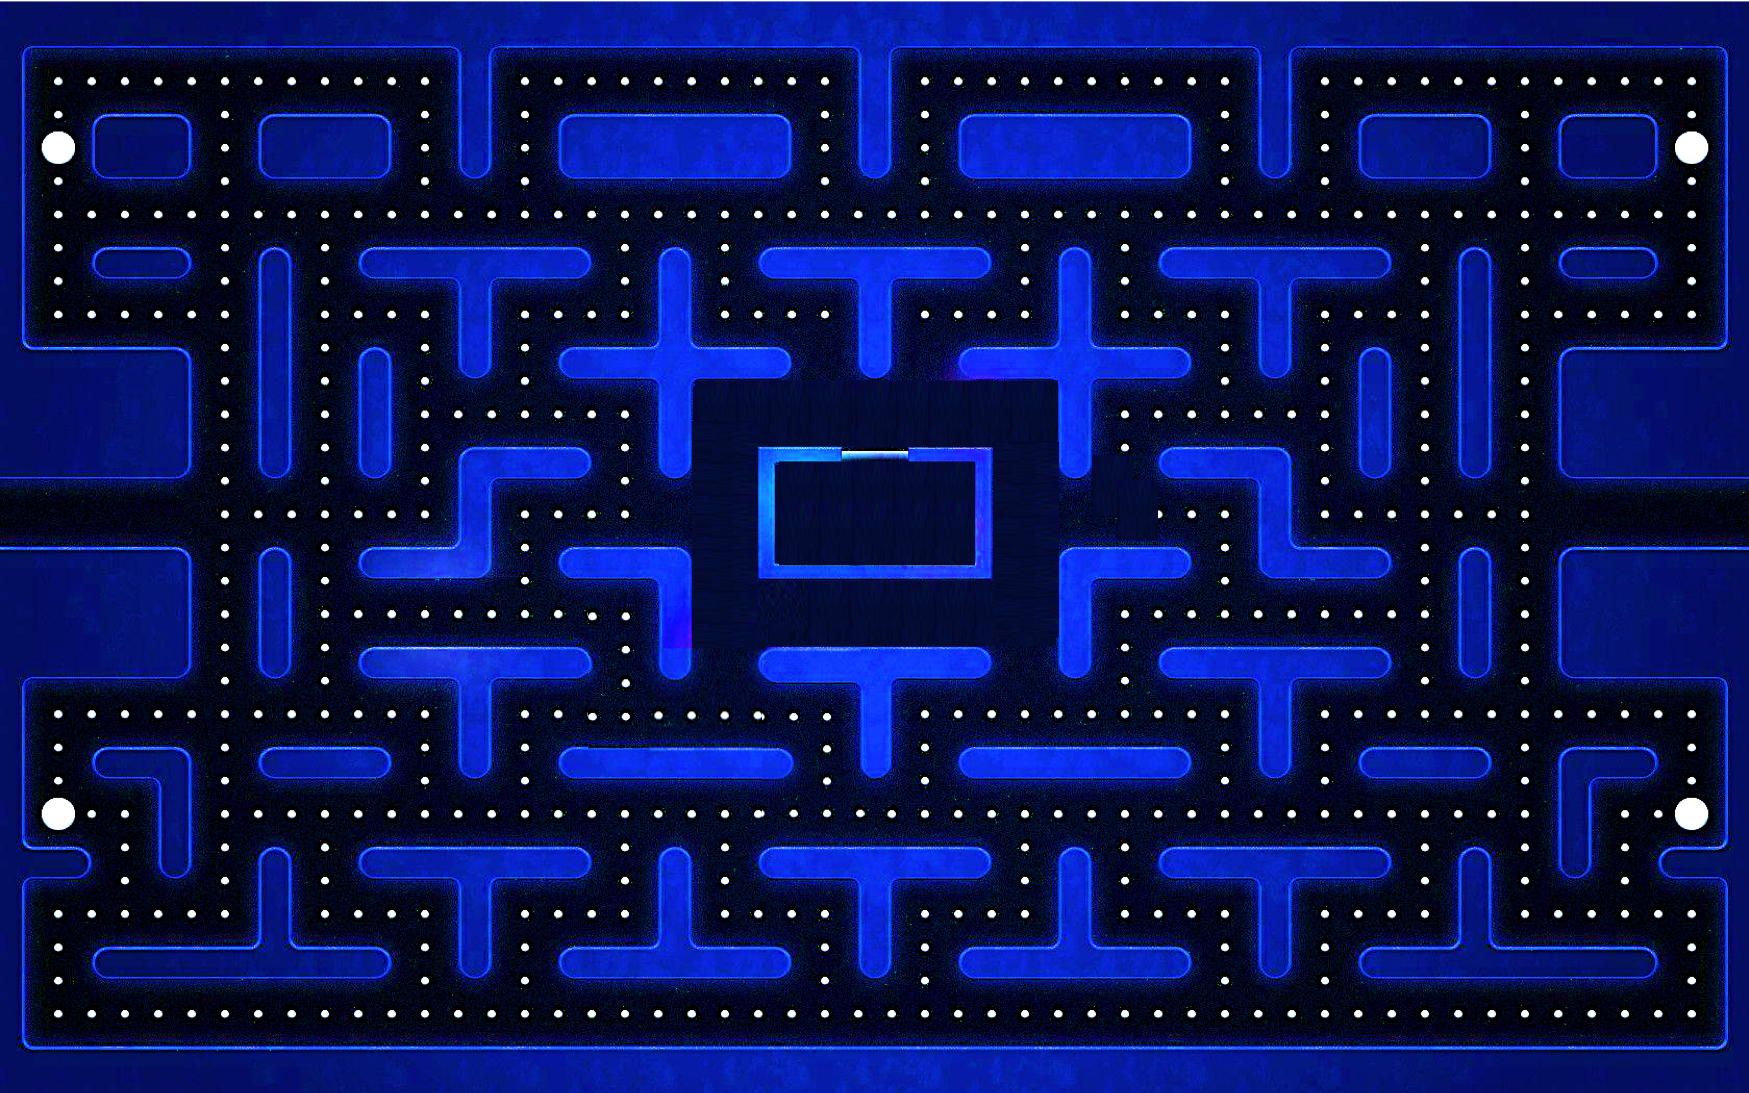
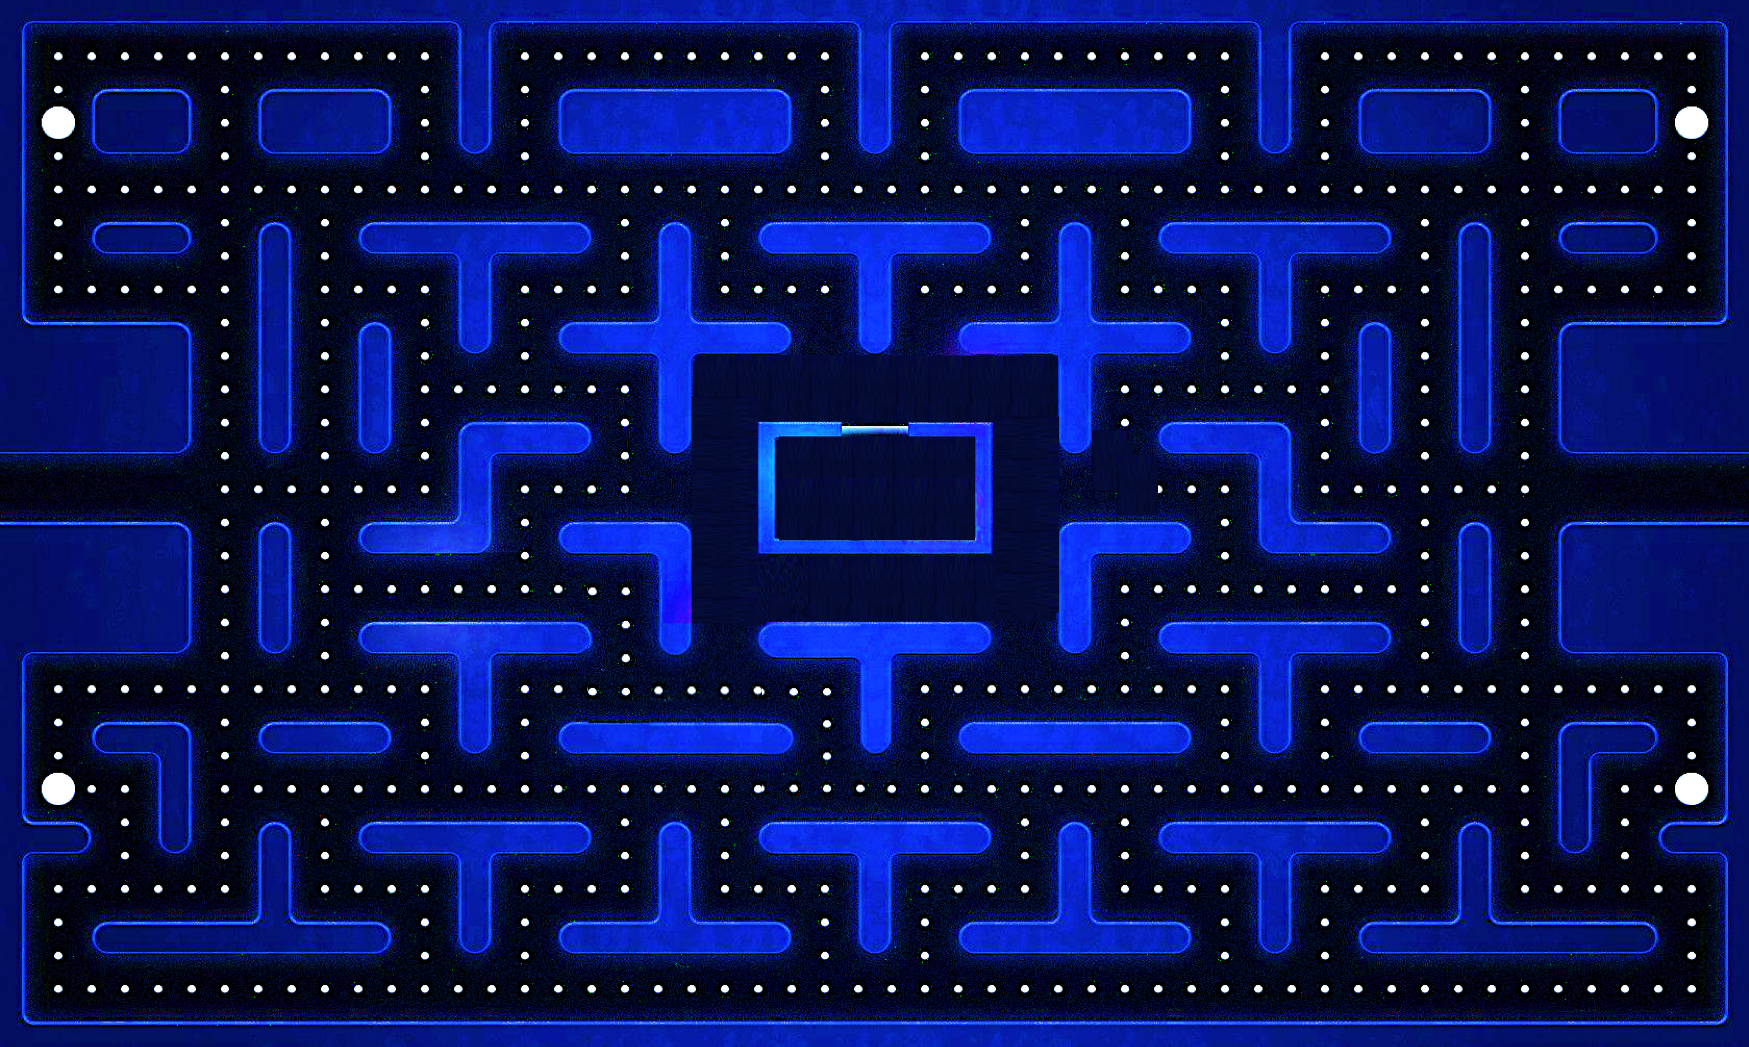
Board/maze generated in a matrix (csv)

diff --git a/PacMan/Pista.java b/PacMan/Pista.java
@@ -1,8 +1,11 @@
 import java.awt.Color;
 import java.awt.Dimension;
 import java.awt.Graphics;
+import java.awt.Image;
 import java.awt.event.KeyEvent;
 import java.awt.event.KeyListener;
+
+import javax.swing.ImageIcon;
 import javax.swing.JPanel;
 
 public class Pista extends JPanel implements Runnable, KeyListener {
@@ -11,16 +14,21 @@ public class Pista extends JPanel implements Runnable, KeyListener {
 	private String direccionPacman,
 									 direccionTmp = "arr";
 	private boolean abiertoCerrado;
+	private Image pista;
+	private double ancho,
+					alto;
 
-	public Pista() {
+	public Pista(int ancho, int alto) {
 		super();
-		int anchoPista = 680;
-		this.setPreferredSize(new Dimension(anchoPista,anchoPista));
-		this.setBackground(Color.BLACK);
-		this.pacman = new PacMan(anchoPista/2-anchoPista/34, anchoPista/2-anchoPista/34);
+		this.ancho = ancho;
+		this.alto = alto*.95;
+		this.setPreferredSize(new Dimension((int)this.ancho,(int)this.alto));
+		this.setBackground(Color.BLUE);
+		this.pacman = new PacMan((int)(this.ancho/2-this.ancho/34), (int)(this.ancho/2-this.ancho/34));
 		this.direccionPacman = "";
 		this.abiertoCerrado = true;
 		this.direccionTmp = "arr";
+		this.pista = new ImageIcon("Imagenes/PistaConPuntitos.png").getImage();
 		this.setFocusable(true);
 		this.addKeyListener(this);
 		this.hilo = new Thread(this);
@@ -29,6 +37,7 @@ public class Pista extends JPanel implements Runnable, KeyListener {
 	
 	public void paintComponent(Graphics g) {
 		super.paintComponent(g);
+		g.drawImage(this.pista, (int)(this.ancho*.025/2), 0, (int)(this.ancho*.975), (int)(this.alto*.975), this);
 		this.pacman.pintaPacman(g,this.abiertoCerrado, this.direccionTmp);
     }
     

diff --git a/PacMan/MainPacman.java b/PacMan/MainPacman.java
@@ -1,16 +1,30 @@
+import java.awt.BorderLayout;
+import java.awt.Color;
+import java.awt.Dimension;
+
 import javax.swing.JFrame;
+import javax.swing.JPanel;
 
 public class MainPacMan extends JFrame{
 	public MainPacMan() {
 		super("PacMan v1.0 by Agus Quintanar");
 		this.setDefaultCloseOperation(EXIT_ON_CLOSE);
-		this.add(new Pista());
+		this.setExtendedState(JFrame.MAXIMIZED_BOTH);
+		this.setUndecorated(true);
 		this.setResizable(false);
-		this.pack();
+		this.setBackground(Color.BLACK);
+		JPanel puntuacion = new JPanel();
+		puntuacion.setPreferredSize(new Dimension((int)this.getToolkit().getScreenSize().width,(int)(this.getToolkit().getScreenSize().height*.05)));
+		puntuacion.setBackground(Color.BLACK);
+		this.add(puntuacion, BorderLayout.SOUTH);
+		this.add(new Pista(this.getToolkit().getScreenSize().width,this.getToolkit().getScreenSize().height));
 		this.setVisible(true);
+		System.out.println("width1: "+getToolkit().getScreenSize().width);
+		System.out.println("height1: "+getToolkit().getScreenSize().height);
 		
 	}
 	public static void main(String[] args) {
+		
 		MainPacMan game =new MainPacMan();
 	}
 
